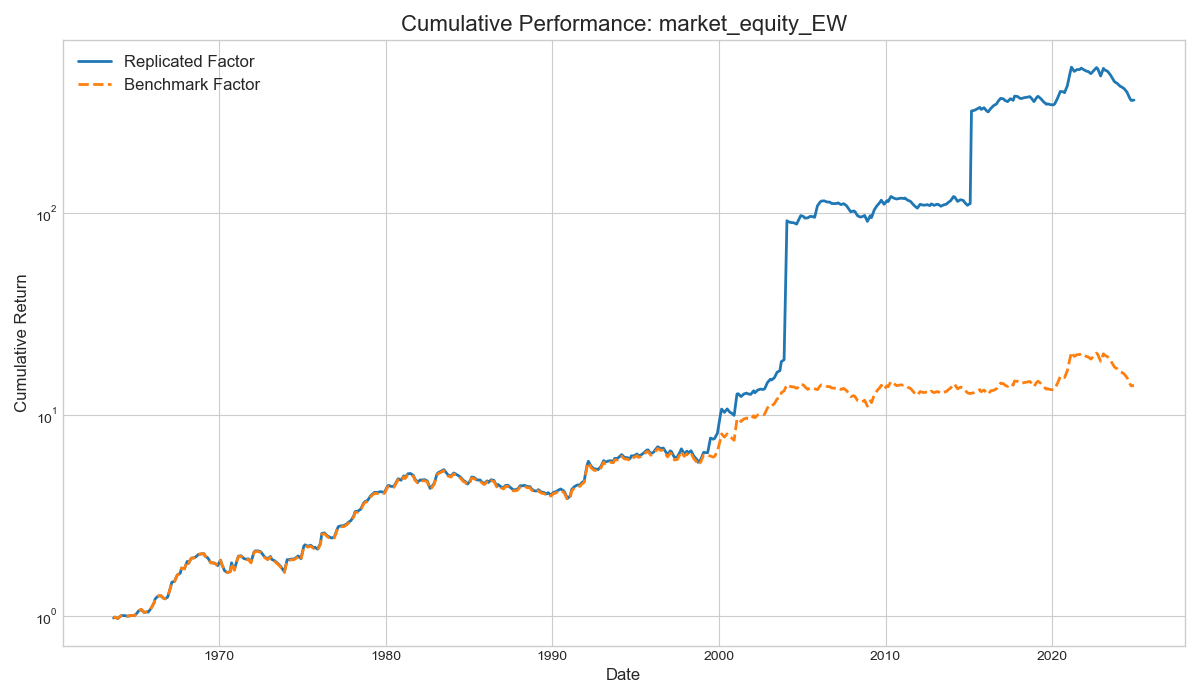
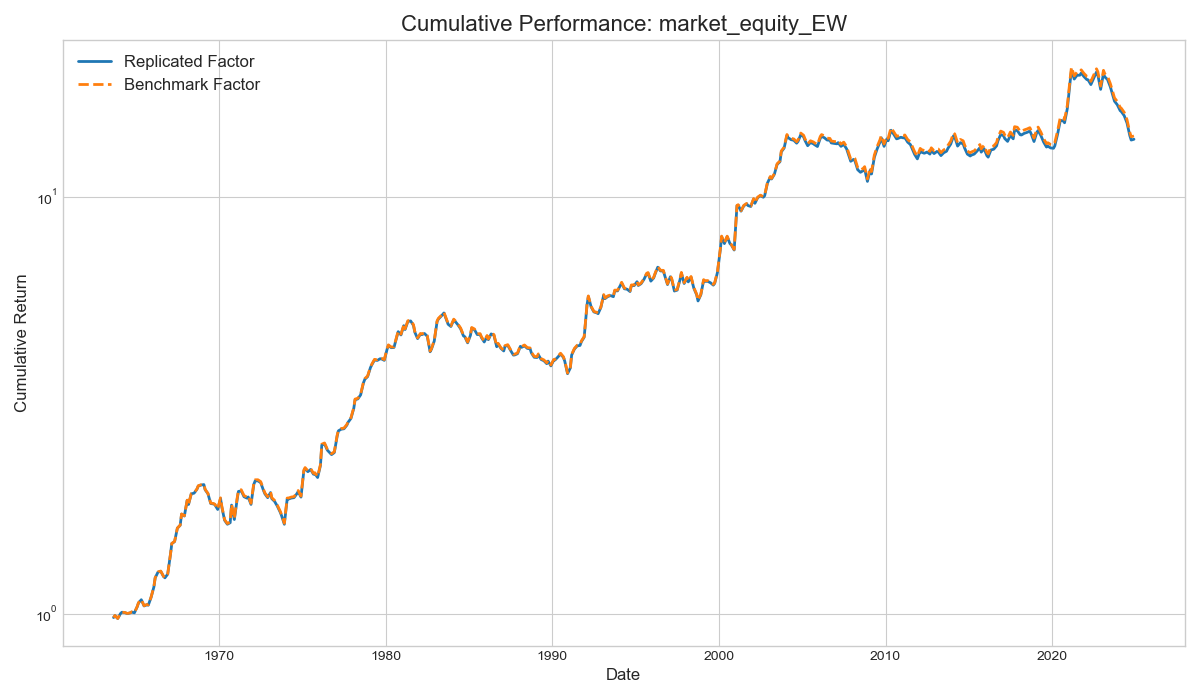
Feat(replication): Implement return winsorization
- Update data ingestion to fetch 'source_crsp' and 'size_grp' columns.
- Add logic to portfolio construction to winsorize non-CRSP returns based on monthly CRSP 0.1% and 99.9% cutoffs.
- This aligns the methodology with the original JKP source code to handle outliers in equal-weighted portfolios.

diff --git a/src/portfolio_construction.py b/src/portfolio_construction.py
@@ -15,13 +15,42 @@ def construct_factor_portfolio(
 ) -> pl.DataFrame:
     """
     Constructs a long-short factor portfolio based on a single characteristic,
-    supporting multiple weighting schemes.
+    supporting multiple weighting schemes and return winsorization.
     """
-    base_cols = ['eom', 'permno', 'crsp_exchcd', 'me', 'ret_exc_lead1m']
+    base_cols = ['eom', 'permno', 'crsp_exchcd', 'source_crsp', 'size_grp', 'me', 'ret_exc_lead1m']
     all_cols = base_cols + [characteristic]
     required_cols = list(dict.fromkeys(all_cols))
     
-    char_df = pl.read_parquet(char_data_path, columns=required_cols).drop_nulls(subset=[characteristic, 'me'])
+    # Add stricter initial screen to match the original R code.
+    char_df = pl.read_parquet(char_data_path, columns=required_cols).drop_nulls(
+        subset=[characteristic, 'me', 'size_grp', 'ret_exc_lead1m']
+    )
+
+    # --- Implement Return Winsorization ---
+    # Per the JKP R code, winsorize non-CRSP returns based on CRSP cutoffs.
+    
+    # 1. Calculate the 0.1% and 99.9% return cutoffs for each month using only CRSP stocks.
+    crsp_ret_cutoffs = char_df.filter(pl.col('source_crsp') == 1).group_by('eom').agg(
+        pl.col('ret_exc_lead1m').quantile(0.001).alias('ret_p001'),
+        pl.col('ret_exc_lead1m').quantile(0.999).alias('ret_p999')
+    )
+    
+    # 2. Join the cutoffs to the main dataframe.
+    char_df = char_df.join(crsp_ret_cutoffs, on='eom', how='left')
+    
+    # 3. Apply the winsorization only to Compustat-sourced stocks (source_crsp == 0).
+    char_df = char_df.with_columns(
+        pl.when(pl.col('source_crsp') == 0)
+        .then(
+            pl.col('ret_exc_lead1m').clip(
+                lower_bound=pl.col('ret_p001'), 
+                upper_bound=pl.col('ret_p999')
+            )
+        )
+        .otherwise(pl.col('ret_exc_lead1m'))
+        .alias('ret_exc_lead1m')
+    ).drop(['ret_p001', 'ret_p999']) # Clean up cutoff columns.
+    # --- End of Winsorization Logic ---
 
     if characteristic == 'be_me':
         char_df = char_df.filter(pl.col(characteristic) > 0)
@@ -33,15 +62,21 @@ def construct_factor_portfolio(
         pl.col('me').quantile(0.80).alias('me_p80')
     ).sort('eom')
 
-    char_df = char_df.join(size_breakpoints, on='eom')
+    char_df = char_df.join(size_breakpoints, on='eom', how='left')
+    
+    # Drop rows that could not be assigned a breakpoint (e.g., in months with no NYSE stocks)
+    char_df = char_df.drop_nulls(subset=['me_p20'])
 
     non_micro_caps = char_df.filter(pl.col('me') > pl.col('me_p20'))
     char_breakpoints = non_micro_caps.group_by('eom').agg(
         pl.col(characteristic).quantile(1/3).alias('char_p33'),
         pl.col(characteristic).quantile(2/3).alias('char_p67')
     ).sort('eom')
-    char_df = char_df.join(char_breakpoints, on='eom')
-    
+    char_df = char_df.join(char_breakpoints, on='eom', how='left')
+
+    # Drop rows that could not be assigned a characteristic breakpoint
+    char_df = char_df.drop_nulls(subset=['char_p33'])
+
     char_df = char_df.with_columns(
         pl.when(pl.col(characteristic) <= pl.col('char_p33'))
         .then(pl.lit('Low'))

diff --git a/src/data_ingestion.py b/src/data_ingestion.py
@@ -7,11 +7,13 @@ import logging
 import sys
 from pathlib import Path
 from typing import List, Optional
+import datetime
 
 import polars as pl
 import wrds
 
-# Import sensitive configuration.
+# Import settings from our central config files
+from config import settings
 try:
     from config.wrds_config import WRDS_USERNAME
 except ImportError:
@@ -58,13 +60,13 @@ def download_jkp_char_data(
         db = wrds.Connection(wrds_username=wrds_username)
         logger.info("Successfully connected to WRDS.")
 
-        core_cols = ["eom", "id", "permno", "crsp_exchcd", "size_grp", "me", "ret_exc_lead1m"]
+        # Add 'source_crsp' and 'size_grp' for winsorization and screening.
+        core_cols = ["eom", "id", "permno", "crsp_exchcd", "source_crsp", "size_grp", "me", "ret_exc_lead1m"]
         
-        # Ensure the list of all columns is unique.
-        all_cols = list(dict.fromkeys(core_cols + characteristics))
+        unique_chars = sorted(list(set(characteristics)))
+        all_cols = list(dict.fromkeys(core_cols + unique_chars))
         columns_str = ", ".join(f'"{c}"' for c in all_cols)
         
-        # Build the SQL filter string.
         filters = [f"excntry = '{country}'"]
         if filter_common: filters.append("common = 1")
         if filter_exch_main: filters.append("exch_main = 1")
@@ -74,7 +76,7 @@ def download_jkp_char_data(
         filters_str = "\n            AND ".join(filters)
 
         query = f"SELECT {columns_str} FROM contrib.global_factor WHERE {filters_str}"
-        logger.info(f"Executing query for characteristics: {characteristics}")
+        logger.info(f"Executing query for characteristics: {unique_chars}")
         
         pandas_df = db.raw_sql(query, date_cols=["eom"])
         logger.info("Query executed successfully. Fetched %d rows and %d columns.", pandas_df.shape[0], pandas_df.shape[1])
@@ -97,3 +99,23 @@ def download_jkp_char_data(
         raise e
 
     logger.info("--- Characteristic Data Download Complete ---")
+
+if __name__ == "__main__":
+    end_date_str = datetime.date.today().strftime('%Y-%m-%d')
+    start_fname = datetime.datetime.strptime(settings.START_DATE_STR, '%Y-%m-%d').strftime('%Y%m')
+    end_fname = datetime.datetime.strptime(end_date_str, '%Y-%m-%d').strftime('%Y%m')
+    output_filename = f"jkp_char_usa_{start_fname}_{end_fname}.parquet"
+    output_file_path = settings.PROJECT_ROOT / "data" / "raw" / "char" / output_filename
+
+    # Extract the unique characteristics from the full list of factors.
+    characteristics_list = list(set(char for char, _, _ in settings.FACTORS_TO_REPLICATE))
+
+    try:
+        download_jkp_char_data(
+            characteristics=characteristics_list,
+            output_path=output_file_path,
+            start_date=settings.START_DATE_STR,
+        )
+    except Exception:
+        logger.critical("Script execution failed. Please check the logs above for details.")
+        sys.exit(1)

diff --git a/config/settings.py b/config/settings.py
@@ -12,8 +12,8 @@ PROJECT_ROOT = Path(__file__).resolve().parent.parent
 # --- Data Ingestion Settings ---
 # The single source of truth for the analysis start date.
 # START_DATE_STR = '2020-01-01' # setting 1
-# START_DATE_STR = '1963-07-01' # setting 2
-START_DATE_STR = '2000-01-01' # setting 3
+START_DATE_STR = '1963-07-01' # setting 2
+# START_DATE_STR = '2000-01-01' # setting 3
 
 # --- Validation Settings ---
 # The correlation threshold to determine a successful replication.
